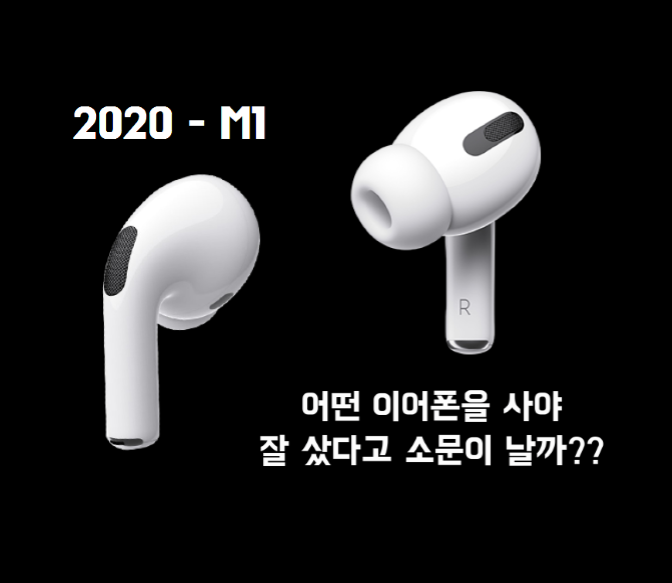
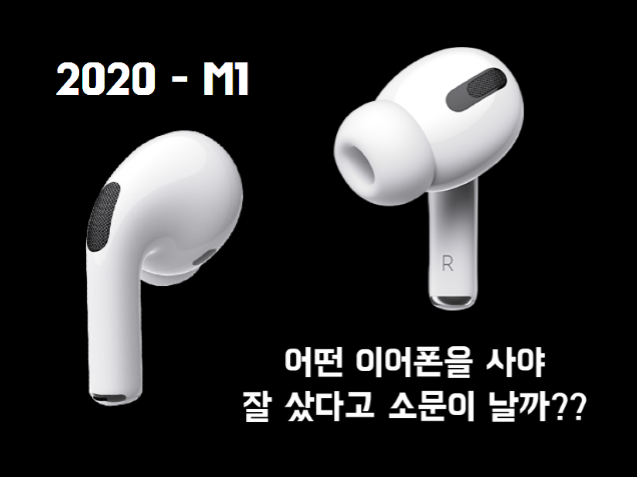
개인 프로젝트 내용 구성

diff --git a/personal.html b/personal.html
@@ -11,14 +11,13 @@
         @import url('https://fonts.googleapis.com/css?family=Montserrat:300|Spartan&display=swap');
 
         @font-face {
-            font-family: 'Wemakeprice-Bold';
-            src: url('https://cdn.jsdelivr.net/gh/projectnoonnu/noonfonts_20-10-21@1.0/Wemakeprice-Bold.woff') format('woff');
+            font-family: 'GmarketSansMedium';
+            src: url('https://cdn.jsdelivr.net/gh/projectnoonnu/noonfonts_2001@1.1/GmarketSansMedium.woff') format('woff');
             font-weight: normal;
             font-style: normal;
         }
 
         * {
-            font-family: 'Montserrat', serif;
             box-sizing: border-box;
         }
 
@@ -35,6 +34,8 @@
         }
 
         .page {
+            font-family: 'Montserrat', serif;
+
             color: black;
             width: 100vw;
             height: calc(100vh - 4.5rem);
@@ -44,7 +45,6 @@
             display: flex;
             flex-direction: column;
             justify-content: center;
-            align-items: center;
         }
 
         nav~.content-page {
@@ -75,6 +75,7 @@
         }
 
         nav {
+            font-family: 'Montserrat', serif;
             position: absolute;
             top: calc(100vh - 4.5rem);
             width: 100vw;
@@ -148,7 +149,7 @@
 
         nav a.tab:not(.placeholder)::before,
         nav a.tab:not(.placeholder)::after {
-            font-family: 'Wemakeprice-Bold';
+            font-family: 'GmarketSansMedium';
             position: absolute;
             top: 0;
             left: 0;
@@ -203,10 +204,177 @@
         nav.hidden {
             transform: translateX(-100%);
         }
+
+        img {
+            border: solid #F3904F;
+            border-radius: 30px;
+            margin: 50px;
+        }
+
+        .project1 {
+            font-family: 'GmarketSansMedium';
+            display: flex;
+            flex-direction: row;
+        }
+
+        .name {
+            font-size: 30px;
+            margin-bottom: 40px;
+            margin-top: 50px;
+        }
+
+        .things1 {
+            display: flex;
+            flex-direction: column;
+            align-items: center;
+        }
+
+        .naeyong {
+            font-size: 20px;
+            margin: 30px;
+        }
+
+        .content {
+            margin-top: 30px;
+        }
+
+        .project2 {
+            font-family: 'GmarketSansMedium';
+            display: flex;
+            flex-direction: row;
+            border-radius: 40px;
+        }
+
+
+
+        .things2 {
+            display: flex;
+            flex-direction: column;
+            align-items: center;
+        }
+
+
+
+        .project3 {
+            font-family: 'GmarketSansMedium';
+            display: flex;
+            flex-direction: row;
+            border-radius: 40px;
+        }
+
+
+        .things3 {
+            display: flex;
+            flex-direction: column;
+            align-items: center;
+        }
+
+        .project4 {
+            font-family: 'GmarketSansMedium';
+            display: flex;
+            flex-direction: row;
+            border-radius: 40px;
+        }
+
+
+
+        .things4 {
+            display: flex;
+            flex-direction: column;
+            align-items: center;
+        }
     </style>
 </head>
 
 <body>
+
+
+    <section id="intro" class="page">
+        <div id="intro-title">
+            <b>&nbsp;&nbsp;&nbsp;&nbsp;P E R S O N A L&nbsp;&nbsp;&nbsp;&nbsp;P R O J E C T S
+                &nbsp;&nbsp;&nbsp;&nbsp;</b>
+        </div>
+        <div id="intro-description">
+            4 Personal Projects By Charlie
+        </div>
+    </section>
+
+    <nav>
+        <a class="menu-btn">
+
+        </a>
+        <a class="tab placeholder"></a>
+        <a class="tab" data-text="어떤 이어폰을 사야 잘 샀다고 소문이 날까?" href="#one">Module 1</a>
+        <a class="tab" data-text="게임 시간 선택제 이대로 괜찮은가?" href="#two">Module 2</a>
+        <a class="tab" data-text="시각장애인을 위한 점자 키보드" href="#three">Module 3</a>
+        <a class="tab" data-text="수전사로 신발 커스텀하기" href="#four">Module 4</a>
+        <a class="tab" href="./index.html" data-text="메인 화면으로" id="user-btn">Back to Main</a>
+
+    </nav>
+
+    <a name="one"></a>
+    <section class="page content-page">
+        <div class="project1">
+            <img src="./pm1new.PNG" width="600px" height="450px">
+            <div class="things1">
+                <div class="name">어떤 이어폰을 사야 잘 샀다고 소문이 날까?</div>
+                <div class="naeyong">나의 첫 개인주제 프로젝트. 당시 관심사가 이어폰, 음향기기 분야였기에 단순히 개인의 관심사를 통해서 주제를 선정하고
+                    진행한 부분이 눈에 띈다.
+                </div>
+            </div>
+        </div>
+    </section>
+
+    <a name="two"></a>
+    <section name="two" class="page content-page">
+        <div class="project2">
+            <img src="./pm2new.PNG" width="600px" height="450px">
+            <div class="things2">
+                <div class="name">게임 시간 선택제 이대로 괜찮은가?</div>
+                <div class="naeyong">나의 두번째 개인주제 프로젝트. 그저 관심사의 정보 전달 차원에 그친 전 모듈의 프로젝트와는 달리 관심사에 대한 사회적
+                    문제점에 대한 본인의 생각을 담아내게 되면서 한 층 더 발전한 느낌이 든다.
+                </div>
+            </div>
+        </div>
+    </section>
+
+    <a name="three"></a>
+    <section name="three" class="page content-page">
+        <div class="project3">
+            <img src="./pm3new.PNG" width="600px" height="450px">
+            <div class="things3">
+                <div class="name">시각장애인을 위한 점자 키보드</div>
+                <div class="naeyong">
+                    <div class="why3">Why? 현재 판매되는 점자 키보드들의 가격이 너무 비싸다</div>
+                    <div class="what3">What? 시각장애인 분들의 미디어 이용률이 낮다</div>
+                    <div class="how3">How? 저렴한 가격의 점자 키보드를 제작한다</div>
+                    <div class="content">Why? What? How?로 기둥을 세우고 시작을 하게 되었다. 왜 이 프로젝트를 진행하는지, 무엇을, 어떻게 할 것인지에 대한
+                        계획을 세우며 프로젝트를 진행했었다.
+                    </div>
+                </div>
+            </div>
+        </div>
+
+    </section>
+
+    <a name="four"></a>
+    <section name="four" class="page content-page">
+        <div class="project4">
+            <img src="./pm4new.PNG" width="600px" height="450px">
+            <div class="things4">
+                <div class="name">수전사로 신발 커스텀하기</div>
+                <div class="naeyong">
+                    <div class="why4">Why? 상품성이 있는 제품을 제작하고 판매해보는 경험을 쌓기 위해서</div>
+                    <div class="what4">What? 나만의 개성있는 커스텀 신발을 제작한다</div>
+                    <div class="how4">How? 수전사를 통해서 커스텀 작업을 진행한다</div>
+                    <div class="content">나의 개인 프로젝트 중 가장 만족스러웠던 프로젝트다. 지금까지 배운 대부분의 것들이 결합되어 있고,
+                        눈에 보이는 결과물이 있었기 때문에 성취감이 들었던 프로젝트다.
+                    </div>
+                </div>
+            </div>
+        </div>
+    </section>
+
 
     <script>
         document.addEventListener("DOMContentLoaded", e => {
@@ -299,57 +467,6 @@
             }
         });
     </script>
-    <section id="intro" class="page">
-        <div id="intro-title">
-            <b>&nbsp;&nbsp;&nbsp;&nbsp;P E R S O N A L&nbsp;&nbsp;&nbsp;&nbsp;P R O J E C T S
-                &nbsp;&nbsp;&nbsp;&nbsp;</b>
-        </div>
-        <div id="intro-description">
-            4 Personal Projects By Charlie
-        </div>
-    </section>
-
-    <nav>
-        <a class="menu-btn">
-
-        </a>
-        <a class="tab placeholder"></a>
-        <a class="tab" data-text="어떤 이어폰을 사야 잘 샀다고 소문이 날까?" href="#one">Module 1</a>
-        <a class="tab" data-text="셧다운제에 대한 나의 생각" href="#two">Module 2</a>
-        <a class="tab" data-text="시각장애인을 위한 점자 키보드" href="#three">Module 3</a>
-        <a class="tab" data-text="수전사로 신발 커스텀하기" href="#four">Module 4</a>
-        <a class="tab" href="./index.html" data-text="메인 화면으로" id="user-btn">Back to Main</a>
-
-    </nav>
-
-    <a name="one"></a>
-    <section class="page content-page">
-        <div>
-            Why?
-        </div>
-    </section>
-
-    <a name="two"></a>
-    <section name="two" class="page content-page">
-        <div>
-            What?
-        </div>
-    </section>
-
-    <a name="three"></a>
-    <section name="three" class="page content-page">
-        <div>
-            How?
-        </div>
-    </section>
-
-    <a name="four"></a>
-    <section name="four" class="page content-page">
-        <div>
-            Results
-        </div>
-    </section>
-
 </body>
 
 </html>

diff --git a/index.html b/index.html
@@ -15,6 +15,7 @@
         @import url('https://fonts.googleapis.com/css2?family=Abel&display=swap');
 
 
+
         body {
             font-family: 'Open Sans', sans-serif;
             margin: 0;
@@ -253,6 +254,8 @@
 </head>
 
 <body>
+
+
     <section class="content-section--fullpage">
         <div class="content-section__headline-container">
             <h1 class="content-section__headline">Charlie</h1>
@@ -268,7 +271,7 @@
 
     <section class="content-section--fullpage2">
         <section class="portfolio-experiment">
-            <h1>Welcome to my personal Website! Here are some of my projects....</h1>
+            <h1>Contents...</h1>
             <div class="Projects">
                 <a href="personal.html">
                     <button class="fill">Personal</button>
@@ -350,6 +353,9 @@
                 fadeOut(element, topDistance, tweenDistance);
             });
         });
+
+        /* 배경 움직이는 JS */
+
 
 
 
